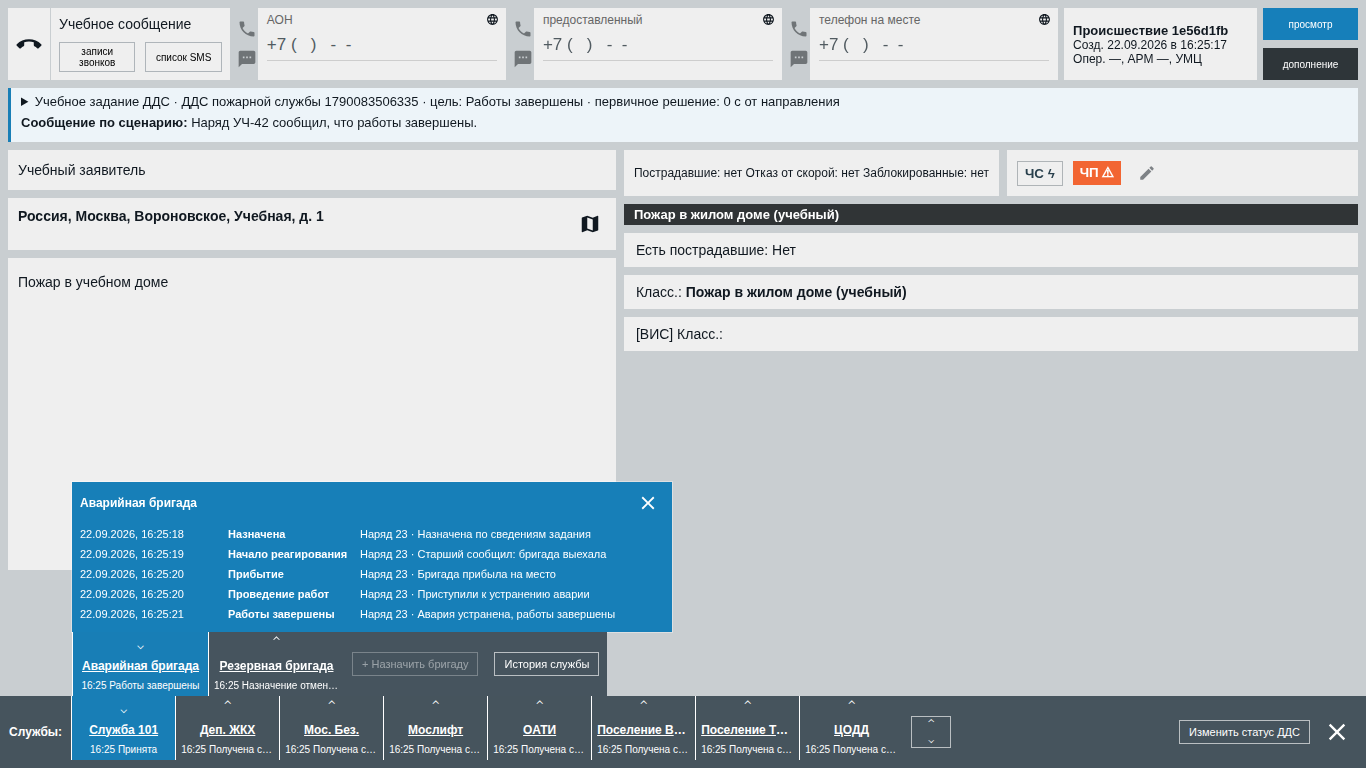
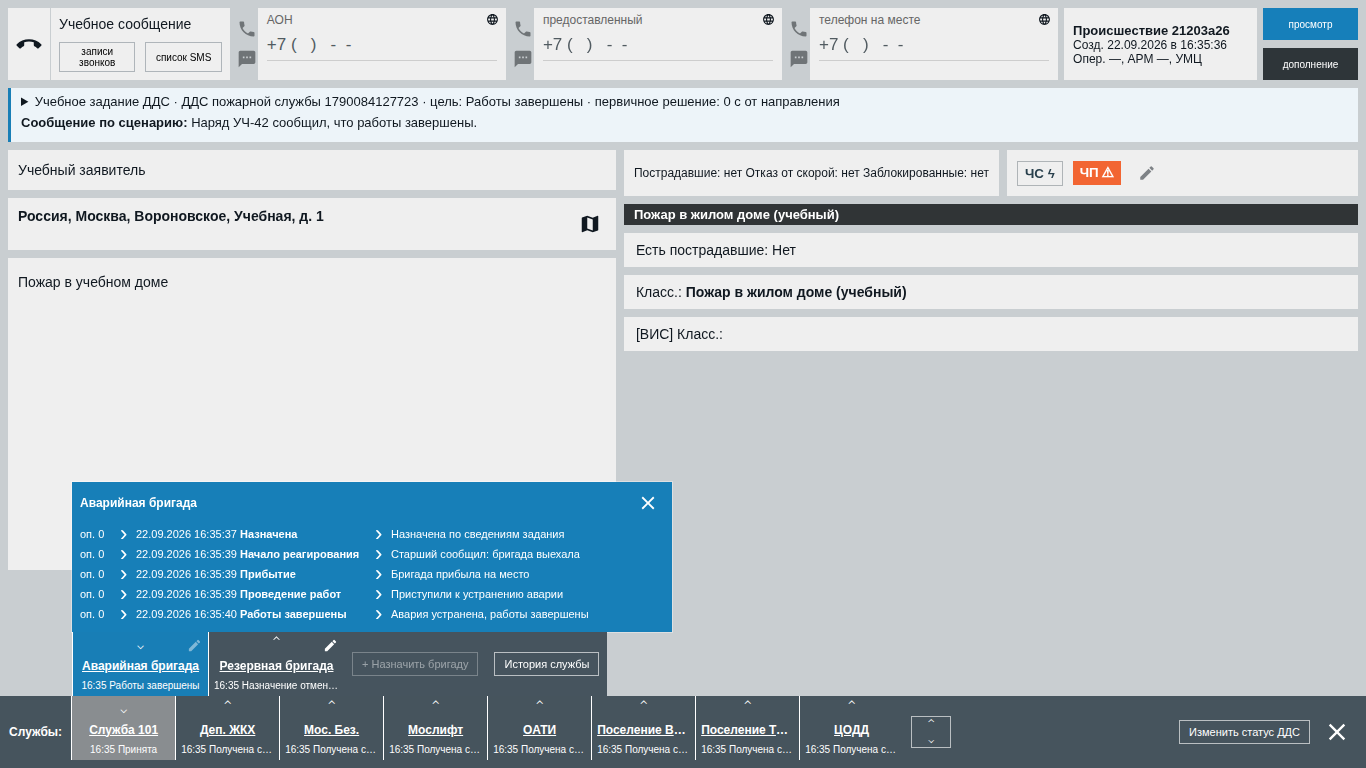
fix: match DDS crew history and tile editing controls

diff --git a/112-frontend/src/pages/training-workspace/ui/DDSResponseHistory.tsx b/112-frontend/src/pages/training-workspace/ui/DDSResponseHistory.tsx
@@ -1,7 +1,7 @@
 import { crewStatusLabels, ddsStatusLabels } from "@/entities/training";
 import { ArmIconButton } from "@/shared/ui/arm";
-import { ddsTime } from "../lib/ddsTime";
 import type { DDSControlsProps } from "../types/DDSControls";
+import { DDSHistoryRow } from "./DDSHistoryRow";
 
 export function DDSResponseHistory({ workspace: w }: DDSControlsProps) {
   const { dds, activeService, activeCrew, completed, busy } = w;
@@ -12,21 +12,8 @@ export function DDSResponseHistory({ workspace: w }: DDSControlsProps) {
     : undefined;
   const history = crew ? crew.history : own ? dds.history : [];
   const labels = crew ? crewStatusLabels : ddsStatusLabels;
-  const canManage = [
-    "accepted",
-    "responding",
-    "arrived",
-    "in_progress",
-  ].includes(dds.status);
   const editable =
-    own &&
-    !completed &&
-    (crew
-      ? canManage && crew.allowed_statuses.length > 0
-      : dds.allowed_statuses.length > 0);
-  const contact = dds.profile.contacts.find(
-    (c) => c.code === crew?.contact_code,
-  );
+    own && !crew && !completed && dds.allowed_statuses.length > 0;
   return (
     <section
       className="dds-response-panel"
@@ -38,11 +25,9 @@ export function DDSResponseHistory({ workspace: w }: DDSControlsProps) {
           {editable && (
             <ArmIconButton
               icon="edit"
-              label={
-                crew ? "Изменить статус бригады" : "Редактировать статус службы"
-              }
+              label="Редактировать статус службы"
               disabled={busy}
-              onClick={() => w.openEditor(crew?.crew_code)}
+              onClick={() => w.openEditor()}
             />
           )}
           <ArmIconButton
@@ -55,37 +40,21 @@ export function DDSResponseHistory({ workspace: w }: DDSControlsProps) {
           />
         </div>
       </header>
-      {crew && contact && (
-        <p>
-          Старший: {contact.name} {contact.position}
-        </p>
-      )}
       <div className="dds-history">
         {!crew && service.added_at && (
-          <div className="dds-history-row">
-            <time dateTime={service.added_at}>
-              {ddsTime(service.added_at, true)}
-            </time>
-            <b>Добавлена</b>
-          </div>
+          <DDSHistoryRow at={service.added_at} status="Добавлена" />
         )}
         {!crew && service.received_at && (
-          <div className="dds-history-row">
-            <time dateTime={service.received_at}>
-              {ddsTime(service.received_at, true)}
-            </time>
-            <b>Получена службой</b>
-          </div>
+          <DDSHistoryRow at={service.received_at} status="Получена службой" />
         )}
         {history.map((e) => (
-          <div className="dds-history-row" key={e.id}>
-            <time dateTime={e.at}>{ddsTime(e.at, true)}</time>
-            <b>{labels[e.status]}</b>
-            <span>
-              {e.crew_number && `Наряд ${e.crew_number} · `}
-              {e.comment}
-            </span>
-          </div>
+          <DDSHistoryRow
+            key={e.id}
+            at={e.at}
+            status={labels[e.status]}
+            comment={e.comment}
+            crewNumber={e.crew_number}
+          />
         ))}
         {!own && (
           <p>

diff --git a/112-frontend/e2e/catalog-dds-real.spec.ts b/112-frontend/e2e/catalog-dds-real.spec.ts
@@ -436,6 +436,12 @@ test("real API: EKP file roundtrip, rule editing, profile publication and DDS ex
         /\d{2}:\d{2}/,
       );
       await expect(page.locator(".dds-response-panel")).toHaveCount(0);
+      await expect(
+        page.getByRole("button", { name: /Изменить статус бригады «/ }),
+      ).toHaveCount(2);
+      await expect(
+        page.locator(".dds-service-grid .dds-service-active"),
+      ).toHaveCSS("background-color", "rgb(137, 141, 144)");
       await page.screenshot({
         path: info.outputPath("dds-crews-collapsed.png"),
         animations: "disabled",
@@ -451,12 +457,10 @@ test("real API: EKP file roundtrip, rule editing, profile publication and DDS ex
         .click();
       await expect(page.locator(".dds-response-panel")).toHaveCount(0);
       await page
-        .getByLabel("Бригады службы")
-        .getByRole("button")
-        .filter({ hasText: "Резерв" })
-        .click();
-      await page
-        .getByRole("button", { name: "Изменить статус бригады", exact: true })
+        .getByRole("button", {
+          name: "Изменить статус бригады «Резервная бригада»",
+          exact: true,
+        })
         .click();
       await page
         .getByRole("combobox", { name: "Статус бригады", exact: true })
@@ -481,7 +485,10 @@ test("real API: EKP file roundtrip, rule editing, profile publication and DDS ex
         "completed",
       ]) {
         await page
-          .getByRole("button", { name: "Изменить статус бригады", exact: true })
+          .getByRole("button", {
+            name: "Изменить статус бригады «Аварийная бригада»",
+            exact: true,
+          })
           .click();
         await page
           .getByRole("combobox", { name: "Статус бригады", exact: true })
@@ -511,6 +518,15 @@ test("real API: EKP file roundtrip, rule editing, profile publication and DDS ex
           }),
         ).not.toBeVisible();
       }
+      await expect(
+        page.locator(".dds-service-grid .dds-service-active"),
+      ).toContainText("Принята");
+      await expect(page.locator(".dds-history-row").first()).toContainText(
+        /оп\. 0.*\d{2}\.\d{2}\.\d{4}.*Назначена/,
+      );
+      await expect(page.locator(".dds-history-row").first()).not.toContainText(
+        "Наряд 23",
+      );
       await page.screenshot({ path: info.outputPath("dds-crews-desktop.png") });
       await page.setViewportSize({ width: 1366, height: 768 });
       await page.screenshot({ path: info.outputPath("dds-crews-laptop.png") });

diff --git a/112-frontend/src/pages/training-workspace/styles/dds-workspace.scss b/112-frontend/src/pages/training-workspace/styles/dds-workspace.scss
@@ -66,8 +66,37 @@
       box-shadow: inset 0 0 0 2px #ffffff80;
     }
   }
-  .dds-service-active {
+  .dds-service-active,
+  .dds-service-active[aria-expanded="true"] {
+    background: #898d90;
+  }
+  .dds-crew-active,
+  .dds-crew-active[aria-expanded="true"] {
     background: #187eb6;
+  }
+  .dds-tile-shell {
+    position: relative;
+    width: 104px;
+    flex: 0 0 104px;
+  }
+  .dds-tile-edit {
+    position: absolute;
+    top: 2px;
+    right: 3px;
+    width: 22px;
+    min-width: 22px;
+    height: 22px;
+    padding: 2px;
+    border: 0;
+    color: white;
+    font-size: 15px;
+    &:hover:not(:disabled),
+    &:focus-visible {
+      background: #ffffff30;
+    }
+    &:disabled {
+      opacity: 0.45;
+    }
   }
   .dds-expand {
     margin: 8px;
@@ -146,11 +175,23 @@
   }
   .dds-history-row {
     display: grid;
-    grid-template-columns: 142px 126px minmax(0, 1fr);
-    gap: 6px;
+    grid-template-columns: 36px 12px minmax(235px, max-content) 12px minmax(
+        0,
+        1fr
+      );
+    gap: 4px;
+    align-items: baseline;
     padding: 4px 0;
     font-size: 11px;
-    span {
+    .dds-history-arrow {
+      font-size: 22px;
+      line-height: 12px;
+      align-self: center;
+    }
+    .dds-history-event {
+      white-space: nowrap;
+    }
+    .dds-history-comment {
       white-space: pre-wrap;
       overflow-wrap: anywhere;
     }
@@ -175,7 +216,8 @@
     align-self: center;
     flex-shrink: 0;
   }
-  .arm-service-tile {
+  .arm-service-tile,
+  .dds-tile-shell {
     width: 136px;
     flex-basis: 136px;
   }
@@ -249,14 +291,20 @@
   }
 }
 @media (max-width: 600px) {
+  .dds-crew-strip .arm-service-tile {
+    padding-top: 24px;
+  }
   .dds-crew-strip .arm-service-tile small {
     display: block;
   }
   .dds-response-panel .dds-history-row {
-    grid-template-columns: 130px minmax(0, 1fr);
+    grid-template-columns: 36px 12px minmax(0, 1fr);
     font-size: 11px;
-    > span {
-      grid-column: 1 / -1;
+    .dds-history-event {
+      white-space: normal;
+    }
+    > .dds-history-arrow:nth-child(4) {
+      grid-column: 2;
     }
   }
   .dds-footer .dds-extra-services,

diff --git a/112-frontend/src/pages/training-workspace/ui/DDSTile.tsx b/112-frontend/src/pages/training-workspace/ui/DDSTile.tsx
@@ -8,20 +8,35 @@ export function DDSTile({
   updatedAt,
   selected,
   onClick,
+  kind = "service",
+  onEdit,
+  editDisabled,
 }: DDSTileProps) {
   return (
-    <button
-      type="button"
-      className={`arm-service-tile ${selected ? "dds-service-active" : ""}`}
-      title={`${title || name}\n${ddsTime(updatedAt, true)} ${status}`}
-      aria-expanded={selected}
-      onClick={onClick}
-    >
-      <span aria-hidden="true">{selected ? "⌄" : "⌃"}</span>
-      <strong>{name}</strong>
-      <small>
-        <time dateTime={updatedAt}>{ddsTime(updatedAt)}</time> {status}
-      </small>
-    </button>
+    <div className={`dds-tile-shell dds-tile-shell--${kind}`}>
+      <button
+        type="button"
+        className={`arm-service-tile ${selected ? `dds-${kind}-active` : ""}`}
+        title={`${title || name}\n${ddsTime(updatedAt, true)} ${status}`}
+        aria-expanded={selected}
+        onClick={onClick}
+      >
+        <span aria-hidden="true">{selected ? "⌄" : "⌃"}</span>
+        <strong>{name}</strong>
+        <small>
+          <time dateTime={updatedAt}>{ddsTime(updatedAt)}</time> {status}
+        </small>
+      </button>
+      {onEdit && (
+        <ArmIconButton
+          icon="edit"
+          label={`Изменить статус бригады «${name}»`}
+          className="dds-tile-edit"
+          disabled={editDisabled}
+          onClick={onEdit}
+        />
+      )}
+    </div>
   );
 }
+import { ArmIconButton } from "@/shared/ui/arm";

diff --git a/112-frontend/src/pages/training-workspace/ui/DDSHistoryRow.tsx b/112-frontend/src/pages/training-workspace/ui/DDSHistoryRow.tsx
@@ -1,0 +1,32 @@
+import { ddsTime } from "../lib/ddsTime";
+import type { DDSHistoryRowProps } from "../types/DDSHistoryRow";
+
+export function DDSHistoryRow({
+  at,
+  status,
+  comment,
+  crewNumber,
+}: DDSHistoryRowProps) {
+  return (
+    <div
+      className="dds-history-row"
+      title={crewNumber ? `Наряд ${crewNumber}` : undefined}
+    >
+      <span className="dds-history-operator">оп. 0</span>
+      <span className="dds-history-arrow" aria-hidden="true">
+        ›
+      </span>
+      <span className="dds-history-event">
+        <time dateTime={at}>{ddsTime(at, true)}</time> <b>{status}</b>
+      </span>
+      {comment && (
+        <>
+          <span className="dds-history-arrow" aria-hidden="true">
+            ›
+          </span>
+          <span className="dds-history-comment">{comment}</span>
+        </>
+      )}
+    </div>
+  );
+}

diff --git a/112-frontend/src/pages/training-workspace/ui/DDSFooter.tsx b/112-frontend/src/pages/training-workspace/ui/DDSFooter.tsx
@@ -101,6 +101,9 @@ export function DDSFooter({ workspace: w }: DDSControlsProps) {
               <DDSTile
                 key={c.id}
                 name={c.name}
+                kind="crew"
+                onEdit={() => w.openEditor(c.crew_code)}
+                editDisabled={busy || !canManage || !c.allowed_statuses.length}
                 status={crewStatusLabels[c.status]}
                 updatedAt={c.status_updated_at ?? c.history.at(-1)?.at}
                 selected={activeCrew === c.crew_code}

diff --git a/112-frontend/src/pages/training-workspace/lib/ddsTime.ts b/112-frontend/src/pages/training-workspace/lib/ddsTime.ts
@@ -12,5 +12,7 @@ export function ddsTime(value?: string, full = false) {
       : {}),
     hour: "2-digit",
     minute: "2-digit",
-  }).format(new Date(value));
+  })
+    .format(new Date(value))
+    .replace(",", "");
 }

diff --git a/112-frontend/src/pages/training-workspace/types/DDSTile.ts b/112-frontend/src/pages/training-workspace/types/DDSTile.ts
@@ -5,4 +5,7 @@ export interface DDSTileProps {
   updatedAt?: string;
   selected: boolean;
   onClick: () => void;
+  kind?: "service" | "crew";
+  onEdit?: () => void;
+  editDisabled?: boolean;
 }

diff --git a/112-frontend/src/pages/training-workspace/types/DDSHistoryRow.ts b/112-frontend/src/pages/training-workspace/types/DDSHistoryRow.ts
@@ -1,0 +1,6 @@
+export interface DDSHistoryRowProps {
+  at: string;
+  status: string;
+  comment?: string;
+  crewNumber?: string | null;
+}

diff --git a/112-frontend/docs/screenshots/dds-crews/README.md b/112-frontend/docs/screenshots/dds-crews/README.md
@@ -25,6 +25,12 @@
 только по нажатию на её плитку, повторное нажатие или крестик закрывает историю.
 Назначение новой бригады само по себе историю не открывает.
 История службы доступна отдельной кнопкой, её закрытие сохраняет видимый ряд бригад.
+Выбранная служба выделена серым, открытая бригада — синим. Карандаш находится
+на каждой плитке бригады, поэтому запись можно добавить и при закрытой истории.
+При завершённом упражнении или отсутствии допустимого перехода карандаш виден,
+но недоступен. Строки повторяют источник: `оп. 0 → дата и время статус → комментарий`;
+стрелка комментария показывается только при наличии текста. Номер наряда
+сохраняется в записи и доступен в подсказке, отдельной колонкой не выводится.
 Плитки содержат время последнего статуса (МСК); полное название, дату и статус
 можно прочитать во всплывающей подсказке. Изменение бригады не обновляет время службы.
 
